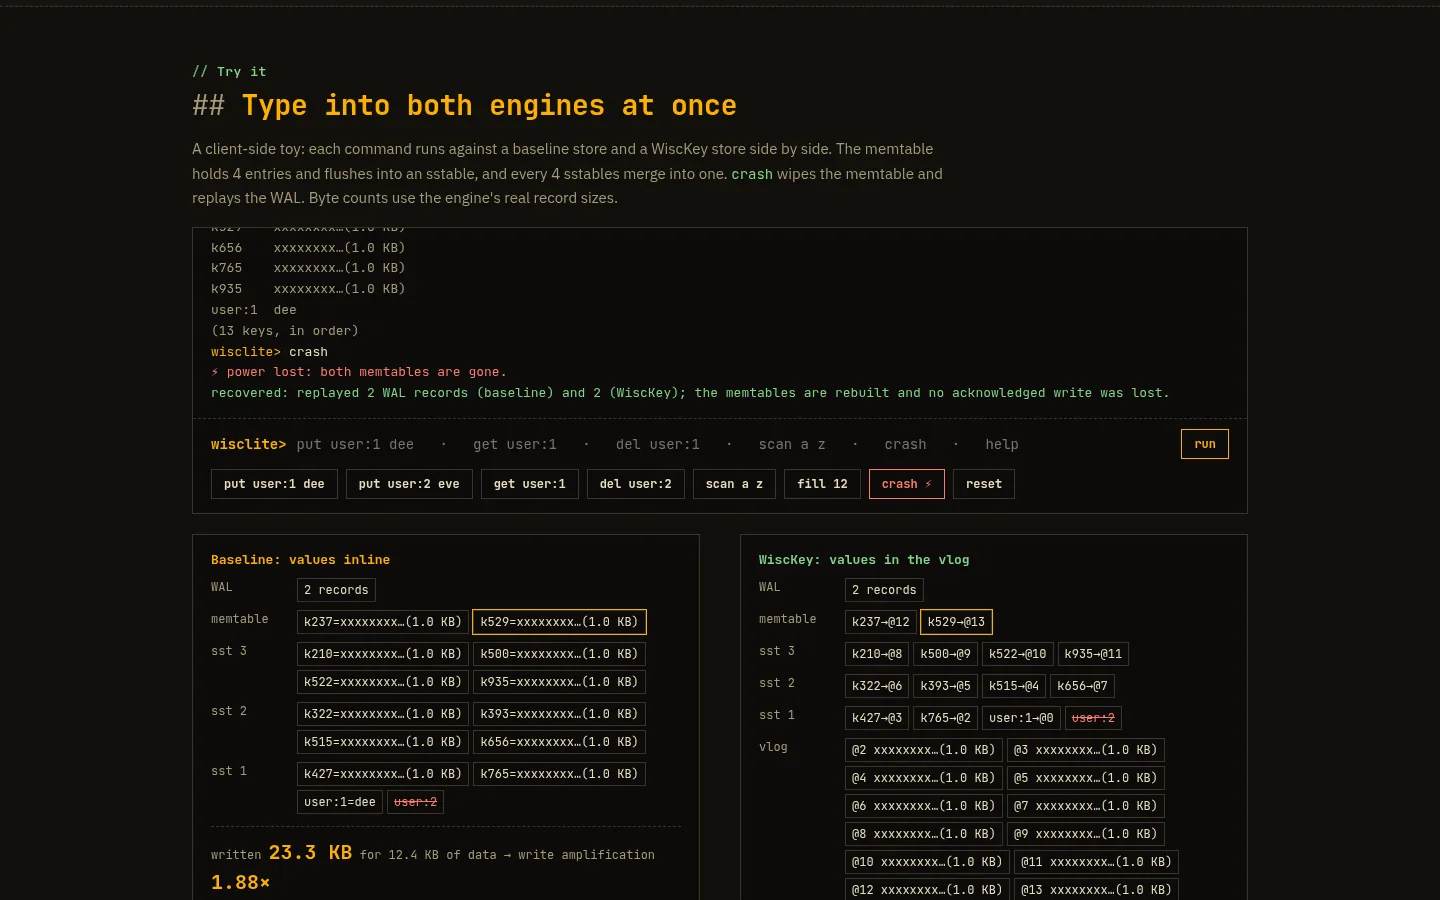
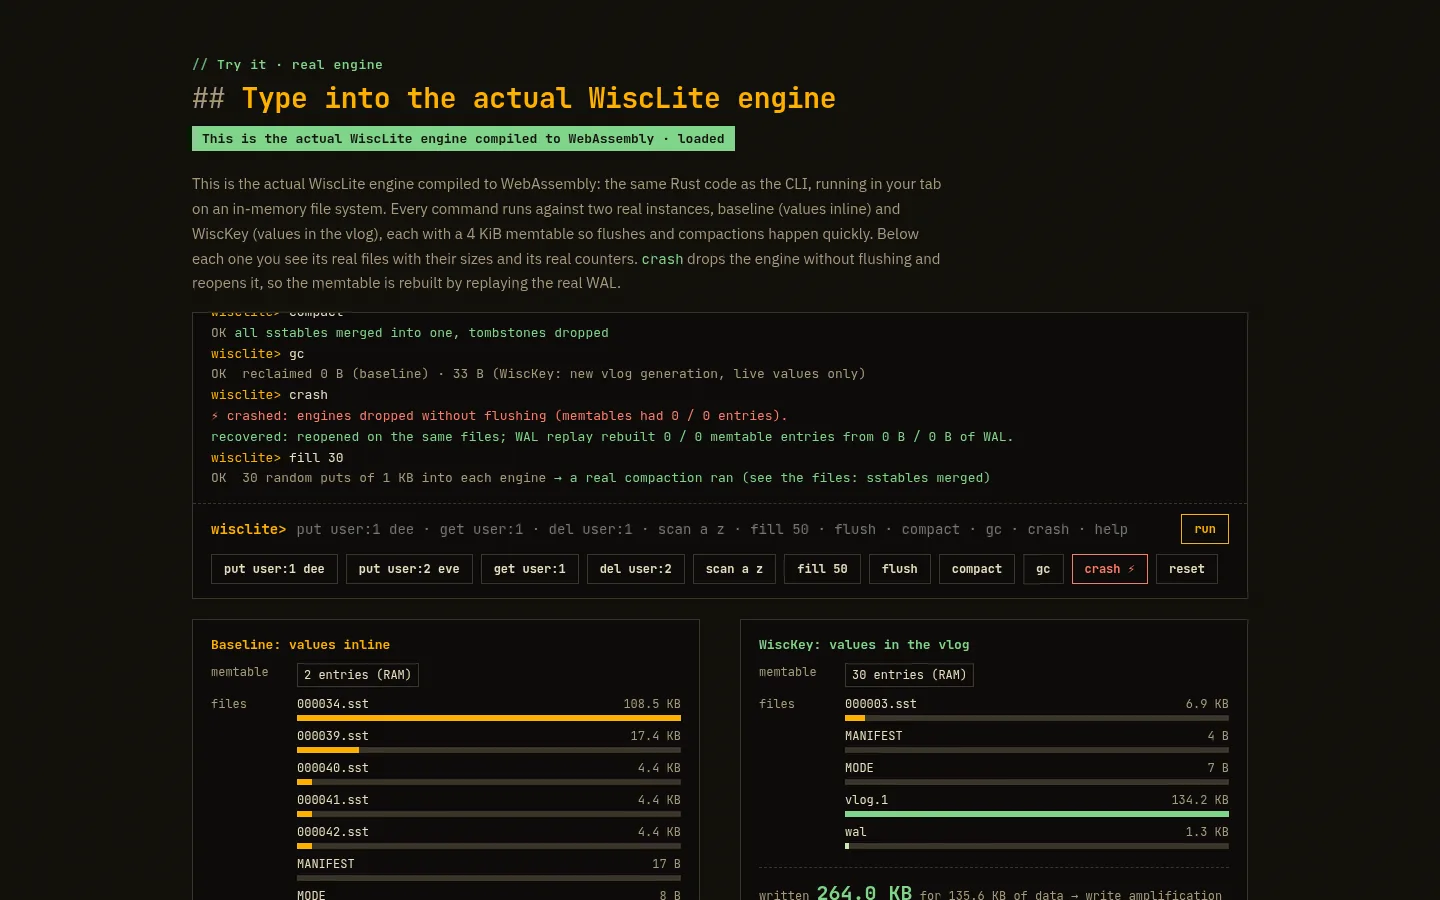
WiscLite page: real engine in WebAssembly, console and bench shots

Changed region(s): [[0.125, 0.0622, 0.875, 1.0], [0.8125, 0.4667, 0.8438, 0.4978], [0.75, 0.4356, 0.7812, 0.4667]]

diff --git a/projects/wisclite.html b/projects/wisclite.html
@@ -2,4 +2,4 @@
 <title>WiscLite &mdash; Deepanshu</title><meta name="description" content="A Rust LSM-tree key-value store that separates keys from values, after the WiscKey paper (USENIX FAST &rsquo;16), with an inline-value baseline mode to measure the difference.">
 <link rel="preconnect" href="https://fonts.googleapis.com"><link rel="preconnect" href="https://fonts.gstatic.com" crossorigin>
 <link href="https://fonts.googleapis.com/css2?family=Instrument+Sans:wght@400;600&family=Instrument+Serif:ital@0;1&display=swap" rel="stylesheet">
-<link rel="stylesheet" href="../style.css"></head><body><div class="wrap"><a class="back" href="../index.html">&larr; Back to all work</a><header class="phead"><div class="label">Tech project</div><h1>WiscLite</h1><p>A Rust LSM-tree key-value store that separates keys from values, after the WiscKey paper (USENIX FAST &rsquo;16), with an inline-value baseline mode to measure the difference.</p></header><figure class="pfig"><a class="frame" href="../assets/projects/wisclite/wisclite-landing.webp"><img src="../assets/projects/wisclite/wisclite-landing.webp" alt="WiscLite landing page."></a><figcaption>WiscLite landing page.</figcaption></figure><div class="gallery"><figure class="pfig" style="margin:0"><a class="frame" href="../assets/projects/wisclite/wisclite-dashboard.webp"><img src="../assets/projects/wisclite/wisclite-dashboard.webp" loading="lazy" alt="Metrics dashboard: headline numbers and where the bytes go, split by file."></a><figcaption>Metrics dashboard: headline numbers and where the bytes go, split by file.</figcaption></figure><figure class="pfig" style="margin:0"><a class="frame" href="../assets/projects/wisclite/wisclite-play.webp"><img src="../assets/projects/wisclite/wisclite-play.webp" loading="lazy" alt="&ldquo;Play a put&rdquo;: a toy model of the engine, baseline and WiscKey side by side."></a><figcaption>&ldquo;Play a put&rdquo;: a toy model of the engine, baseline and WiscKey side by side.</figcaption></figure></div><figure class="pfig"><a class="frame" href="../assets/projects/wisclite/wisclite-console.webp"><img src="../assets/projects/wisclite/wisclite-console.webp" loading="lazy" alt="Try-it console: commands run against both stores; <code>crash</code> wipes the memtables and replays the WAL."></a><figcaption>Try-it console: commands run against both stores; <code>crash</code> wipes the memtables and replays the WAL.</figcaption></figure><div class="body"><div><ol class="points"><li><span>Values are appended once to a checksummed value log; the LSM-tree keeps only key &rarr; (offset, length) pointers.</span></li><li><span>WAL with crash recovery, sorted SSTables with Bloom filters, size-tiered compaction, value-log GC and an atomic MANIFEST as the commit point.</span></li><li><span>In the 500,000-put benchmark, write amplification was 1.16&times; versus 4.55&times; for the inline baseline; range scans are slower, the paper&rsquo;s known cost.</span></li><li><span>The site has an interactive Try-it console that demonstrates a crash and WAL replay, and sliders that estimate write amplification.</span></li><li><span>CLI plus a localhost HTTP server with a JSON API and a metrics dashboard.</span></li><li><span>22 tests covering storage, crash recovery, compaction, GC and the HTTP API; the README lists the limitations openly.</span></li></ol></div><aside><dl><dt>Stack</dt><dd>Rust</dd><dt>Links</dt><dd><a href="https://deepanshu16125.github.io/WiscLite/">Live site</a> &middot; <a href="https://github.com/Deepanshu16125/WiscLite">Code</a></dd></dl></aside></div></div><div class="wrap"><footer><span>&copy; 2026 Deepanshu</span><span><a href="#">Back to top &uarr;</a></span></footer></div></body></html>
+<link rel="stylesheet" href="../style.css"></head><body><div class="wrap"><a class="back" href="../index.html">&larr; Back to all work</a><header class="phead"><div class="label">Tech project</div><h1>WiscLite</h1><p>A Rust LSM-tree key-value store that separates keys from values, after the WiscKey paper (USENIX FAST &rsquo;16), with an inline-value baseline mode to measure the difference.</p></header><figure class="pfig"><a class="frame" href="../assets/projects/wisclite/wisclite-landing.webp"><img src="../assets/projects/wisclite/wisclite-landing.webp" alt="WiscLite landing page."></a><figcaption>WiscLite landing page.</figcaption></figure><div class="gallery"><figure class="pfig" style="margin:0"><a class="frame" href="../assets/projects/wisclite/wisclite-dashboard.webp"><img src="../assets/projects/wisclite/wisclite-dashboard.webp" loading="lazy" alt="Metrics dashboard: headline numbers and where the bytes go, split by file."></a><figcaption>Metrics dashboard: headline numbers and where the bytes go, split by file.</figcaption></figure><figure class="pfig" style="margin:0"><a class="frame" href="../assets/projects/wisclite/wisclite-play.webp"><img src="../assets/projects/wisclite/wisclite-play.webp" loading="lazy" alt="&ldquo;Play a put&rdquo;: a toy model of the engine, baseline and WiscKey side by side."></a><figcaption>&ldquo;Play a put&rdquo;: a toy model of the engine, baseline and WiscKey side by side.</figcaption></figure></div><figure class="pfig"><a class="frame" href="../assets/projects/wisclite/wisclite-console.webp"><img src="../assets/projects/wisclite/wisclite-console.webp" loading="lazy" alt="Try-it console running the real engine in WebAssembly: <code>crash</code> drops the engine without flushing, and reopening replays the WAL."></a><figcaption>Try-it console running the real engine in WebAssembly: <code>crash</code> drops the engine without flushing, and reopening replays the WAL.</figcaption></figure><figure class="pfig"><a class="frame" href="../assets/projects/wisclite/wisclite-bench.webp"><img src="../assets/projects/wisclite/wisclite-bench.webp" loading="lazy" alt="In-browser benchmark: the same engine, compiled to WebAssembly, runs in a Web Worker on your machine."></a><figcaption>In-browser benchmark: the same engine, compiled to WebAssembly, runs in a Web Worker on your machine.</figcaption></figure><div class="body"><div><ol class="points"><li><span>Values are appended once to a checksummed value log; the LSM-tree keeps only key &rarr; (offset, length) pointers.</span></li><li><span>WAL with crash recovery, sorted SSTables with Bloom filters, size-tiered compaction, value-log GC and an atomic MANIFEST as the commit point.</span></li><li><span>In the 500,000-put benchmark, write amplification was 1.16&times; versus 4.55&times; for the inline baseline; range scans are slower, the paper&rsquo;s known cost.</span></li><li><span>The site runs the actual Rust engine compiled to WebAssembly: an interactive Try-it console that demonstrates a crash and WAL replay, an in-browser benchmark, and sliders that estimate write amplification.</span></li><li><span>CLI plus a localhost HTTP server with a JSON API and a metrics dashboard.</span></li><li><span>22 tests covering storage, crash recovery, compaction, GC and the HTTP API; the README lists the limitations openly.</span></li></ol></div><aside><dl><dt>Stack</dt><dd>Rust, WebAssembly</dd><dt>Links</dt><dd><a href="https://deepanshu16125.github.io/WiscLite/">Live site</a> &middot; <a href="https://github.com/Deepanshu16125/WiscLite">Code</a></dd></dl></aside></div></div><div class="wrap"><footer><span>&copy; 2026 Deepanshu</span><span><a href="#">Back to top &uarr;</a></span></footer></div></body></html>
